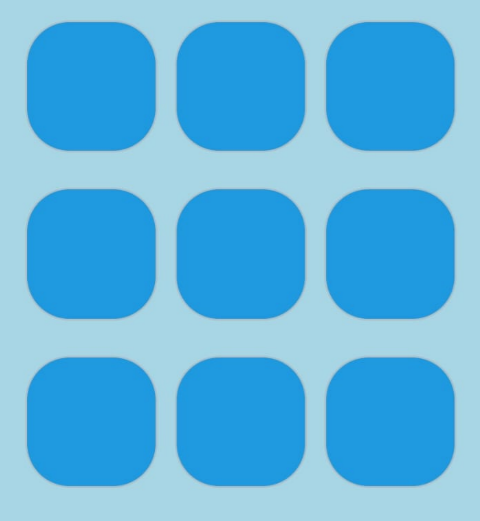
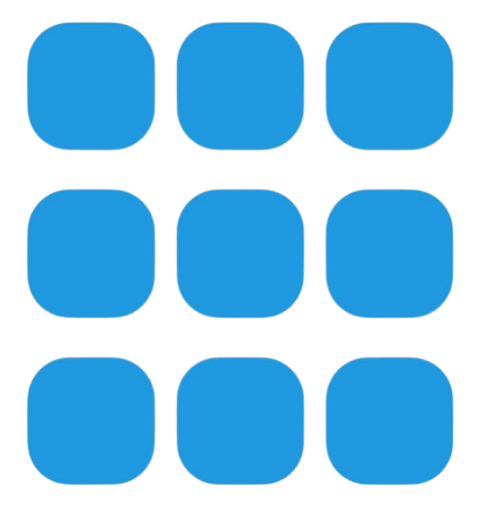
SequenceGame is now working and playable

diff --git a/app/sequence-memory-game.tsx b/app/sequence-memory-game.tsx
@@ -1,5 +1,5 @@
-import React from "react";
-import { View, Text, StyleSheet, Image} from "react-native";
+import React, {useState, useEffect} from "react";
+import { View, Text, StyleSheet} from "react-native";
 import { Stack } from "expo-router";
 import { Colors } from "../constants/Constants";
 import MemoryCard from "../components/MemoryCard";
@@ -7,30 +7,103 @@ import LevelIndicator from "../components/LevelIndicator";
 import PageTitle from "../components/PageTitle";
 
 export default function SequenceMemory() {
-    return (
+  const [level, setLevel] = useState(0);
+  const [sequence, setSequence] = useState<number[]>([]);
+  const [clickedCards, setClickedCards] = useState<number[]>([]);
+  const [isSequenceCorrect, setIsSequenceCorrect] = useState<boolean>(true);
+  const [highlightedCards, setHighlightedCards] = useState<number[]>([]);
+  const highlightDuration = 500;
+  const [inputEnabled, setInputEnabled] = useState<boolean>(false);
+
+  const generateNextRandomNumber = (lastNumber: number | undefined) => {
+    let newNumber;
+    do {
+      newNumber = Math.floor(Math.random() * 9); // Generate a number between 0 and 8
+    } while (newNumber === lastNumber); // Ensure it's not the same as the last number
+    return newNumber;
+  };
+
+  useEffect(() => {
+    setSequence((prevSequence) => {
+      const lastNumber = prevSequence[prevSequence.length - 1];
+      const newNumber = generateNextRandomNumber(lastNumber);
+      return [...prevSequence, newNumber];
+    });
+  }, [level]);
+
+  useEffect(() => {
+    // Highlight cards in the current sequence one by one
+    const highlightSequence = async () => {
+      await new Promise(resolve => setTimeout(resolve, 1000));
+      for (let i = 0; i < sequence.length; i++) {
+        setHighlightedCards([sequence[i]]); // Highlight current card
+        await new Promise(resolve => setTimeout(resolve, highlightDuration));
+      }
+      setHighlightedCards([]);
+      setInputEnabled(true);
+    };
+
+    if (sequence.length > 0) {
+      highlightSequence();
+    }
+  }, [sequence]);
+
+  const handleCardClick = (id: number) => {
+    if (inputEnabled)
+    {
+      setClickedCards([... clickedCards, id]);
+    }
+  };
+
+  useEffect(() => {
+    if (sequence.length > 0){    
+      for (var i = 0; i < clickedCards.length; i++) {
+        if (clickedCards[i] != sequence[i]){
+          setIsSequenceCorrect(false);
+          break;
+        }
+      }
+
+      if (isSequenceCorrect && clickedCards.length == sequence.length){
+        setInputEnabled(false);
+        setLevel(level + 1); // Move to the next level
+        setClickedCards([]); // Reset clicked cards for the next round
+      }
+  }
+  }, [clickedCards])
+
+  useEffect(() => {
+    if (!isSequenceCorrect){
+      setIsSequenceCorrect(true);
+      setHighlightedCards([]);
+      setClickedCards([]);
+      setSequence([]);
+      setInputEnabled(false);
+      setLevel(0);
+      alert("Game Over");
+    }
+  }, [isSequenceCorrect]);
+
+  return (
       <View style={styles.container}>
         <Stack.Screen options={{ title: "Sequence Memory" }} />
         <PageTitle text="Sequence Memory"/>
-        <LevelIndicator level={0}/>
-  
-        {/* TODO */}
+        <LevelIndicator level={level}/>
+
         <View style={styles.gamePad}>
-            <MemoryCard id={1} highlight={false} onClick={(i) => {}}/>
-            <MemoryCard id={1} highlight={false} onClick={(i) => {}}/>
-            <MemoryCard id={1} highlight={false} onClick={(i) => {}}/>
-         </View>
-        <View style={styles.gamePad}>
-            <MemoryCard id={1} highlight={false} onClick={(i) => {}}/>
-            <MemoryCard id={1} highlight={false} onClick={(i) => {}}/>
-            <MemoryCard id={1} highlight={false} onClick={(i) => {}}/>
-        </View>
-        <View style={styles.gamePad}>
-            <MemoryCard id={1} highlight={false} onClick={(i) => {}}/>
-            <MemoryCard id={1} highlight={false} onClick={(i) => {}}/>
-            <MemoryCard id={1} highlight={false} onClick={(i) => {}}/>
+          {Array.from({ length: 9 }, (_, i) => (
+            <MemoryCard
+              key={i}
+              id={i}
+              highlight={highlightedCards.includes(i)}
+              highlightDuration={highlightDuration}
+              disable={!inputEnabled}
+              onClick={() => handleCardClick(i)}
+            />
+          ))}
         </View>
 
-        <Text>TODO</Text>
+        {!inputEnabled && <Text>Please wait</Text>}
       </View>
     );
   }
@@ -42,8 +115,11 @@ export default function SequenceMemory() {
       alignItems: "center",
     },
     gamePad: {
-        flexDirection: 'row',
+        flexDirection: "row",
+        flexWrap: "wrap",
+        justifyContent: "center", 
         marginBottom: 10,
+        width: '90%'
       },
   });
   

diff --git a/components/MemoryCard.tsx b/components/MemoryCard.tsx
@@ -4,22 +4,24 @@ import { Colors } from "../constants/Constants";
 
 // Define a type for the props
 type MemoryCardProps = {
-    id: string | number; // Unique identifier for the button
+    id: number; // Unique identifier for the button
     highlight: boolean; // If set to true the button is beeing highlited for a set duration of time (highlightDuration). Use this to tell the user which button should be clicked ect...
-    highlightDuration?: number; // Optional number to set how long it should be highlighted when hightlight is set to true from outside => uses the isPressedColor.
+    highlightDuration?: number; // Optional number to set how long it should be highlighted when (hightlight) is set to true from outside => uses the isPressedColor.
     color?: string; // Optional color to override the default background color of the button
     isPressedColor?: string; // Optional color to override the default color when button is beeing clicked
+    disable?: boolean; //The users clicks wont be registered but the button can still be highlighted with (highlight)
     maintainClicked?: boolean; //Optional if this button is clicked, it will stay as clicked and cant be changed
     resetClicked?: boolean; // If true, programmatically resets the clicked state. Only use this if maintainClicked is true.
-    onClick: (id: string | number) => void; // Callback function that returns `id` when clicked. Use this to check if the button click was valid.
+    onClick: (id: number) => void; // Callback function that returns `id` when clicked. Use this to check if the button click was valid.
   };
 
 export default function MemoryCard({
   id,
   highlight,
   highlightDuration = 200,
-  color = Colors.buttonPrimary,
+  color = Colors.buttonSecondary,
   isPressedColor = Colors.headerTint,
+  disable = false,
   maintainClicked = false,
   resetClicked = false,
   onClick
@@ -28,19 +30,21 @@ export default function MemoryCard({
   const [isClicked, setIsClicked] = useState(false);
 
   const handlePressIn = () => {
-    setIsPressed(true); 
+    if (!disable){
+      setIsPressed(true); 
 
-    if (!isClicked){
-      onClick(id);
-      setIsClicked(true);
-    }
+      if (!isClicked){
+        onClick(id);
+        setIsClicked(true);
+      }
+  }
   };
 
   const handlePressOut = () => {
-    setIsPressed(false);
-    if (!maintainClicked) {
-      setTimeout(() => setIsClicked(false), 200);
-    }
+      setIsPressed(false);
+      if (!maintainClicked) {
+        setTimeout(() => setIsClicked(false), 200);
+      }
   };
 
   // Programmatically highlight when highlightExternally changes to true

diff --git a/components/NavigationButton.tsx b/components/NavigationButton.tsx
@@ -16,6 +16,7 @@ type NavigationButtonProps = {
   path: string; // Required URL string for navigation
   replace?: boolean; // Optional boolean to set replace mode
   icon?: ImageSourcePropType; // Optional image source for the icon
+  backgroundColor?: string; // Optional color to override the default background color of the button
 };
 
 export default function NavigationButton({
@@ -23,17 +24,19 @@ export default function NavigationButton({
   path,
   replace,
   icon,
+  backgroundColor = Colors.buttonPrimary
 }: NavigationButtonProps) {
   return (
     <View style={styles.buttonContainer}>
-      <Link href={path} asChild replace={replace}>
+      {/* Link overrides style from Touchableopacity */}
+      <Link href={path} asChild replace={replace} style={{backgroundColor:  backgroundColor, justifyContent: icon ? "space-between" : "center"}}> 
         <TouchableOpacity style={styles.button}>
           <Text style={styles.buttonText}>{text}</Text>
           {icon && <Image source={icon} style={styles.icon} />}
         </TouchableOpacity>
       </Link>
     </View>
-  );
+  )
 }
 
 const styles = StyleSheet.create({
@@ -43,9 +46,7 @@ const styles = StyleSheet.create({
   },
   button: {
     flexDirection: "row", // Allows icon and text to be side by side
-    justifyContent: "space-between", // Adds space between icon and text
     alignItems: "center",
-    backgroundColor: Colors.buttonSecondary,
     paddingVertical: 5,
     paddingHorizontal: 20,
     borderRadius: 25,
@@ -59,7 +60,7 @@ const styles = StyleSheet.create({
     marginRight: 8, // Adds space between icon and text
   },
   buttonText: {
-    color: Colors.lightText,
+    color: Colors.darkText,
     fontSize: Fonts.sizes.large,
     fontFamily: Fonts.family.regular,
     fontWeight: "bold",

diff --git a/app/sequence-memory.tsx b/app/sequence-memory.tsx
@@ -1,5 +1,5 @@
 import React from "react";
-import { View, Text, StyleSheet, Image} from "react-native";
+import { View, StyleSheet} from "react-native";
 import { Stack } from "expo-router";
 import NavigationButton from "../components/NavigationButton";
 import { Colors } from "../constants/Constants";
@@ -21,7 +21,7 @@ export default function SequenceMemory() {
                            The length of the pattern increases with each completion.
                            The test is over if you make a mistake."/>
       
-      <NavigationButton text="Start" replace={true} path="/sequence-memory-game"/>
+      <NavigationButton text="Start" replace={true} path="/sequence-memory-game" backgroundColor={Colors.buttonStart}/>
     </View>
   );
 }

diff --git a/app/index.tsx b/app/index.tsx
@@ -10,7 +10,7 @@ export default function MainMenu() {
       <NavigationButton
         text="Sequence Memory"
         path="/sequence-memory"
-        icon={require("../assets/icon.png")}
+        icon={require("../assets/SequenceMemory.png")}
       />
       <NavigationButton text="Number Memory" path="/number-memory" />
       <NavigationButton text="Verbal Memory" path="/verbal-memory" />

diff --git a/constants/Constants.tsx b/constants/Constants.tsx
@@ -4,12 +4,13 @@
 const Colors = {
   headerBackground: "#f4511e",
   headerTint: "#FFFFFF",
-  buttonPrimary: "#1f9ae0",
-  buttonSecondary: "#005687",
+  buttonPrimary: "#e6ffff",
+  buttonSecondary: "#1f9ae0",
   buttonBorder: "#B0BEC5",
   background: "#A9D6E5",
   darkText: "#37474F",
   lightText: "#FFFFFF",
+  buttonStart: "#FFFF00"
 };
 
 const Fonts = {
